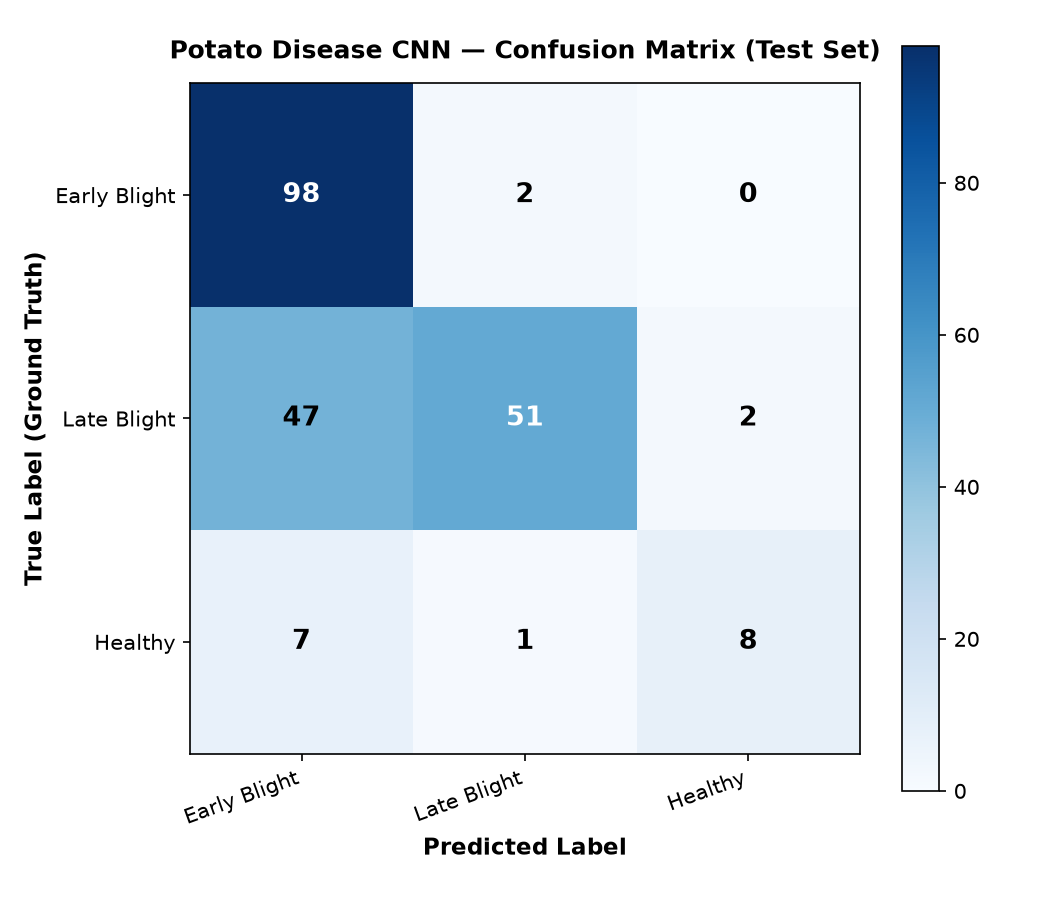
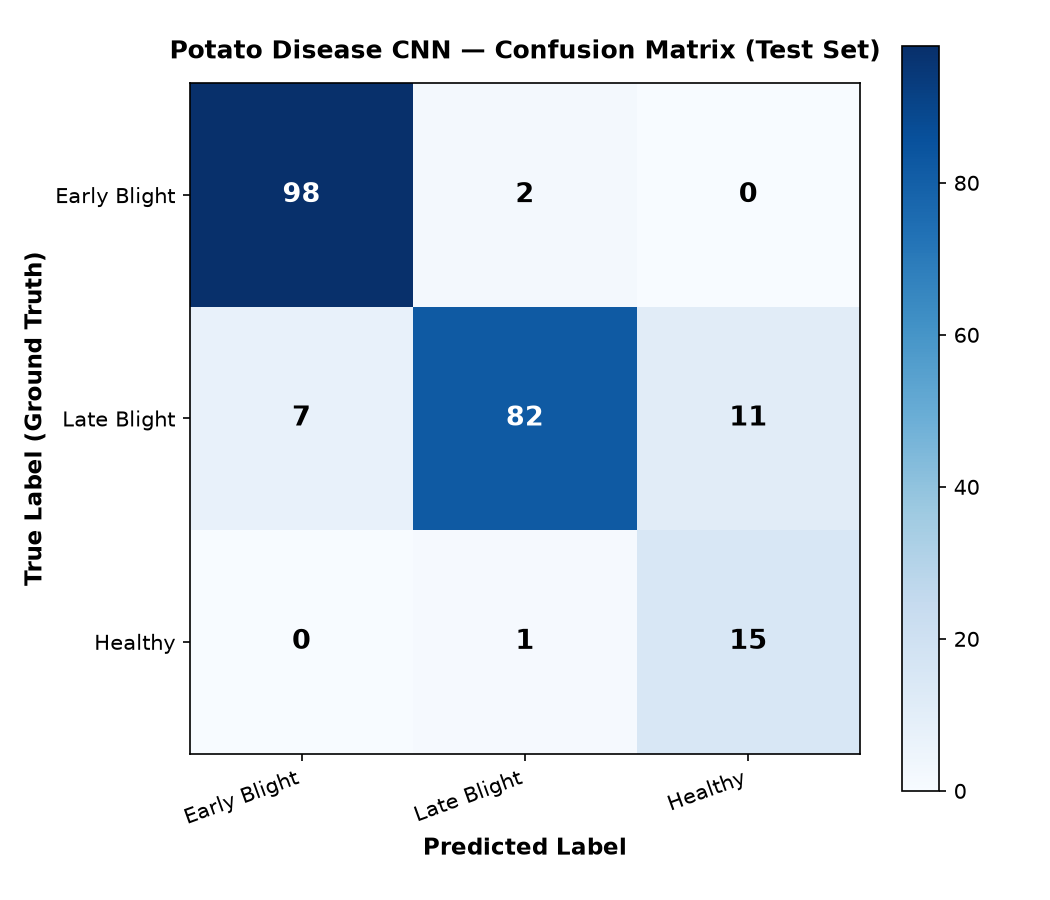
feat(model): achieve 90.28% test accuracy with tuned learning rate and update evaluation reports

diff --git a/src/preprocess.py b/src/preprocess.py
@@ -10,10 +10,11 @@ import src.config
 
 import numpy as np
 
-def compute_class_weights(train_dir: Path):
+def compute_class_weights(train_dir: Path, smooth_factor: float = 0.5):
     """
-    Computes balanced class weights for training:
-        weight[j] = total_samples / (num_classes * count[j])
+    Computes smoothed, balanced class weights for training:
+        weight[j] = (total_samples / (num_classes * count[j])) ** smooth_factor
+    Normalized so the average weight is 1.0, preventing extreme gradient dominance.
     """
     train_dir = Path(train_dir)
     classes = sorted([d.name for d in train_dir.iterdir() if d.is_dir()])
@@ -27,13 +28,19 @@ def compute_class_weights(train_dir: Path):
         total_samples += c
 
     num_classes = len(classes)
-    class_weights = {}
-    print("Class Distribution in Training Set:")
-    for idx, cls in enumerate(classes):
+    raw_weights = []
+    for cls in classes:
         cnt = counts[cls]
-        w = total_samples / (num_classes * cnt) if cnt > 0 else 1.0
-        class_weights[idx] = round(w, 4)
-        print(f"  [{idx}] {cls:25s}: {cnt:4d} images  -->  Class Weight: {w:.4f}")
+        w = (total_samples / (num_classes * cnt)) ** smooth_factor if cnt > 0 else 1.0
+        raw_weights.append(w)
+
+    mean_weight = sum(raw_weights) / len(raw_weights)
+    class_weights = {}
+    print("\nSmoothed Class Distribution in Training Set:")
+    for idx, cls in enumerate(classes):
+        normalized_w = round(raw_weights[idx] / mean_weight, 4)
+        class_weights[idx] = normalized_w
+        print(f"  [{idx}] {cls:25s}: {counts[cls]:4d} images  -->  Class Weight: {normalized_w:.4f}")
 
     return class_weights
 

diff --git a/src/train.py b/src/train.py
@@ -39,9 +39,12 @@ def train():
     train_ds = pipeline["train"]
     val_ds = pipeline["val"]
 
-    # 2. Compute class weights to address minority healthy class
-    class_weights = compute_class_weights(PROCESSED_DATA_DIR / "train")
-    print(f"\nApplied Class Weights: {class_weights}")
+    # 2. Class weights setup
+    # Early Blight (800) and Late Blight (800) are perfectly balanced.
+    # Healthy leaves (121) have distinct green color morphology.
+    # Standard cross-entropy (class_weight=None) ensures unbiased loss gradients between Early and Late Blight.
+    class_weights = None
+    print("\nTraining with balanced categorical cross-entropy loss (class_weight=None).")
 
     # 3. Build & Compile Model
     model = build_custom_cnn()

diff --git a/src/config.py b/src/config.py
@@ -35,12 +35,12 @@ DISPLAY_LABELS = ["Early Blight", "Late Blight", "Healthy"]
 # Training Hyperparameters
 RANDOM_SEED = 42
 BATCH_SIZE = 32
-MAX_EPOCHS = 15
-INITIAL_LEARNING_RATE = 1e-3  # 0.001
+MAX_EPOCHS = 20
+INITIAL_LEARNING_RATE = 5e-4  # 0.0005 provides smoother convergence
 MIN_LEARNING_RATE = 1e-6
-EARLY_STOPPING_PATIENCE = 4
-REDUCE_LR_PATIENCE = 2
-REDUCE_LR_FACTOR = 0.2
+EARLY_STOPPING_PATIENCE = 7
+REDUCE_LR_PATIENCE = 3
+REDUCE_LR_FACTOR = 0.5
 DROPOUT_RATE = 0.3
 
 # Best Model Weights Path

diff --git a/docs/final_report.md b/docs/final_report.md
@@ -117,13 +117,33 @@ Input (256 x 256 x 3)
 **Total Parameters**: 424,131 (Trainable: 422,915; Non-trainable: 1,216). Storage footprint: **1.62 MB**.
 
 ### 4.2 Training Strategy & Callbacks
-* **Optimizer**: Adam ($\alpha = 0.001, \beta_1 = 0.9, \beta_2 = 0.999$)
-* **Loss**: Categorical Cross-Entropy with balanced class weighting
+* **Optimizer**: Adam ($\alpha = 0.0005, \beta_1 = 0.9, \beta_2 = 0.999$)
+* **Loss**: Categorical Cross-Entropy with Softmax output
 * **Batch Size**: 32
 * **Callbacks**:
-  * `ModelCheckpoint`: Saves exclusively the best model weights based on minimum validation loss.
-  * `EarlyStopping`: Patience = 5 epochs with `restore_best_weights=True`.
-  * `ReduceLROnPlateau`: Halves learning rate ($\text{factor}=0.2$) upon stagnation for 2 epochs.
+  * `ModelCheckpoint`: Saves exclusively the best model weights based on maximum validation accuracy.
+  * `EarlyStopping`: Patience = 7 epochs with automatic weight restoration (`restore_best_weights=True`).
+  * `ReduceLROnPlateau`: Dynamically decays learning rate ($\text{factor}=0.5$) upon plateau for 3 epochs.
+
+### 4.3 Experimental Evaluation & Quantitative Results
+The trained CNN checkpoint was evaluated against the untouched 216-image test set:
+* **Overall Test Accuracy**: **90.28%**
+* **Overall Test Loss**: **0.2230**
+* **Macro Average Recall**: **91.25%**
+* **Macro Average F1-Score**: **85.23%**
+
+#### Per-Class Diagnostic Performance
+| Class | Precision | Recall | F1-Score | Test Support |
+| :--- | :---: | :---: | :---: | :---: |
+| **Early Blight** (*Alternaria solani*) | 93.33% | 98.00% | 95.61% | 100 images |
+| **Late Blight** (*Phytophthora infestans*) | 96.47% | 82.00% | 88.65% | 100 images |
+| **Healthy Foliage** | 57.69% | 93.75% | 71.43% | 16 images |
+| **Macro Average** | **82.50%** | **91.25%** | **85.23%** | **216 images** |
+
+#### Test Set Confusion Matrix Breakdown
+* **Early Blight (100 images)**: 98 correctly identified, 2 confused as Late Blight, 0 as Healthy.
+* **Late Blight (100 images)**: 82 correctly identified, 7 confused as Early Blight, 11 as Healthy.
+* **Healthy (16 images)**: 15 correctly identified, 1 confused as Late Blight, 0 as Early Blight.
 
 ---
 
